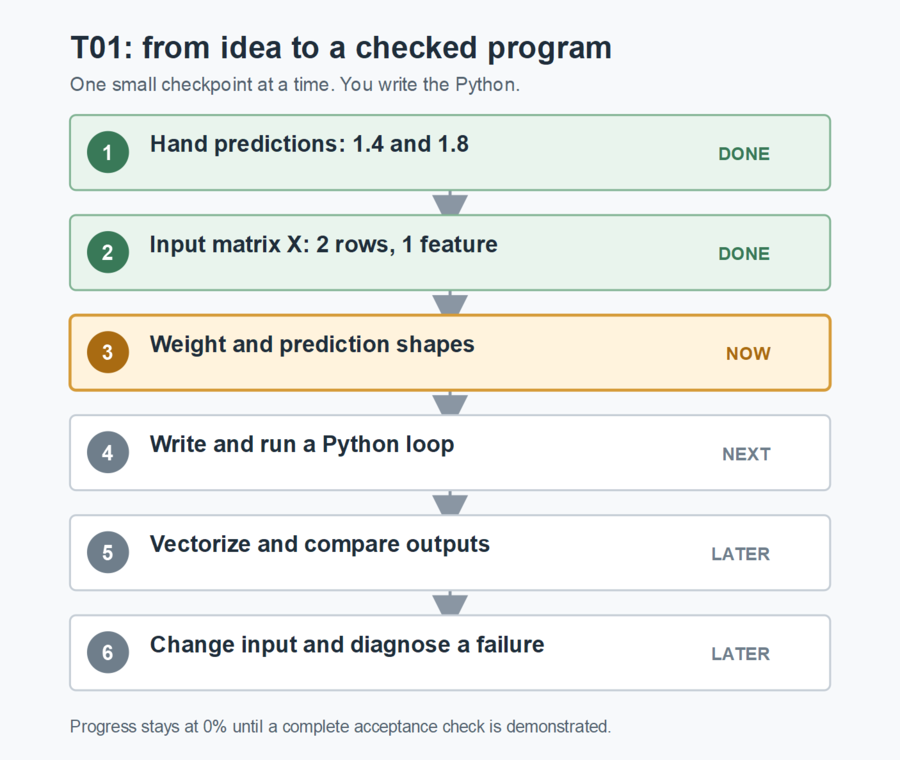
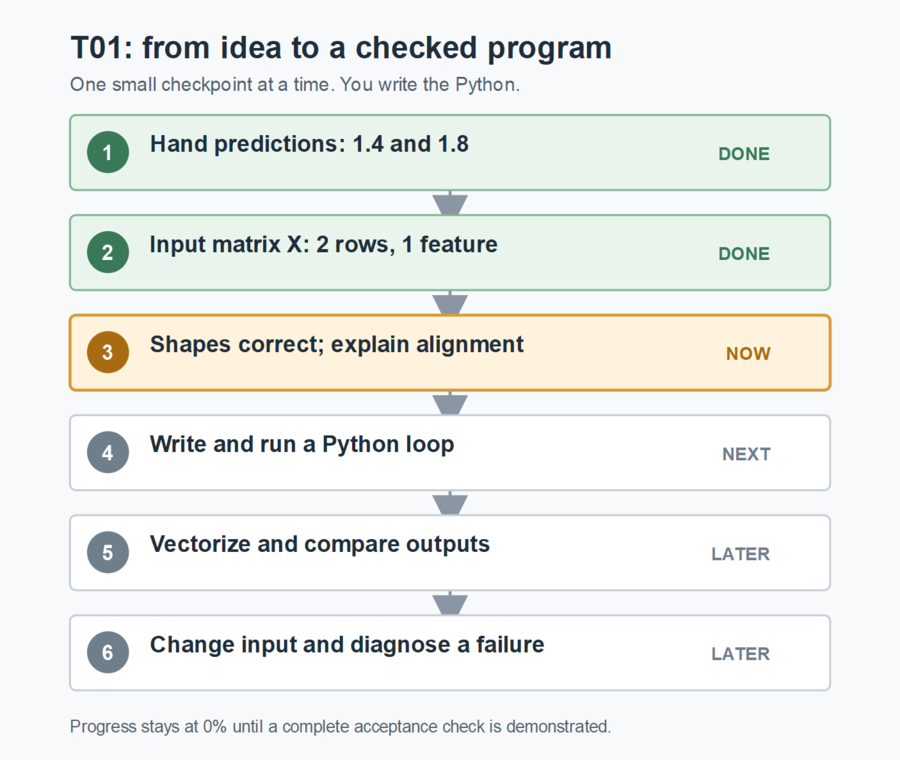
learn(T01): record correct shapes and next coding step

Changed region(s): [[0.1556, 0.4237, 0.5911, 0.4842]]

diff --git a/LEARNING_MANUAL.md b/LEARNING_MANUAL.md
@@ -9,12 +9,12 @@ This is the one document to read and work from. It grows as you build the projec
 | Course study | Machine Learning Specialization C1W1 and C1W2 completed, learner-reported; C1W3 not confirmed |
 | Project | P00, first-principles valuation-stretch foundation |
 | Active task | ML-G01-T01: prediction, first with one feature and two fictional companies |
-| Correct so far | Hand predictions `1.4` and `1.8`; input matrix `X.shape == (2, 1)` |
-| Still to answer | Shape of the weight array `w`, shape of the predictions, and why the dimensions fit |
+| Correct so far | Hand predictions `1.4` and `1.8`; `X.shape == (2, 1)`, `w.shape == (1,)`, and prediction shape `(2,)` |
+| Still to explain | Why the one feature in each row pairs with the one weight |
 | Code | The learner's Python file is empty; no run has been observed |
 | Evidence-backed progress | Task 0%, P00 0%, overall 0%; the first check is partial |
 
-![T01 learning flow, showing completed hand calculations and the current shape question](Visuals/current_lesson_flow.png)
+![T01 learning flow, showing correct shapes and the next Python run](Visuals/current_lesson_flow.png)
 
 The picture is a rendered PNG, not a Mermaid code block. The table above gives the same state if an image viewer is unavailable.
 
@@ -74,7 +74,7 @@ Use these rules to reason, not to memorize an answer:
 
 Different example: suppose three companies each have **two** features. The input table has shape `(3, 2)`. There are two weights, so a one-dimensional weight array has shape `(2,)`. One output per company gives a prediction array of shape `(3,)`. The inner dimensions match: each two-feature row pairs with two weights.
 
-**Your current check:** apply that reasoning to the two-company, one-feature exercise. State `w.shape`, the prediction array's shape, and why the feature count and weight count must agree. The manual does not fill in this active answer for you.
+**Your current check:** you answered `w.shape == (1,)` and prediction shape `(2,)` correctly. In your own words, explain why one feature column and one weight fit together. Then test the shapes in Python.
 
 ## 4. The Python ideas you will use
 
@@ -106,7 +106,7 @@ These are building blocks, not a finished solution. You decide the variable name
 | Step | What you do | Evidence | State |
 |---|---|---|---|
 | 1 | Calculate the two outputs by hand. | `1.4` and `1.8` | Done |
-| 2 | Explain the input, weight, and output shapes. | Correct sizes and one sentence on matching dimensions | In progress; `X` done |
+| 2 | Explain the input, weight, and output shapes. | Correct sizes and one sentence on matching dimensions | In progress; sizes correct, explanation pending |
 | 3 | Write a Python loop for the two rows. | Run it and compare with the hand values | Not started |
 | 4 | Write the vectorized NumPy form. | Show that both versions agree | Not started |
 | 5 | Add a second feature, then the five-feature fixture. | Explain new shapes and compare both versions | Later |
@@ -130,9 +130,9 @@ Before each first run, say what you expect to see. After the run, compare the ac
 
 Today's picture shows the task path, not model performance. When you reach gradient descent, you will plot cost against training steps to see whether learning is converging. Later you will plot actual against predicted values and the residuals, which are the differences between them. Each plot must come from your executed code and have an explanation of what it does and does not show.
 
-## Next answer
+## Next action
 
-For `X.shape == (2, 1)`, what are `w.shape` and the prediction array's shape? Why do those sizes fit? After that, we move to your first Python run.
+Write the smallest working version yourself in the empty Python file: create the two revenue-growth inputs, one trial weight, and bias; print the input and weight shapes; then use a loop to print one prediction per company. Predict the output before you run it. Show the run output and explain in one sentence why each one-feature row can pair with the one weight.
 
 ## How this manual is maintained
 

diff --git a/00_CURRENT_CONTEXT.md b/00_CURRENT_CONTEXT.md
@@ -19,12 +19,12 @@ This is the compact mentor resumption note for `D:\ML-project`. The learner work
 - Phase: P00, C1W2 first-principles valuation engine.
 - Goal: [ML-G01 - C1W2 Valuation Stretch Foundation](Goals/ML-G01%20-%20C1W2%20Valuation%20Stretch%20Foundation/GOAL.md).
 - Task: [ML-G01-T01 - Vectorized Prediction](Goals/ML-G01%20-%20C1W2%20Valuation%20Stretch%20Foundation/T01%20-%20Vectorized%20Prediction.md).
-- Task state: ready for Python; [first hand-calculation checkpoint](Journey/2026-09-23-ML-G01-T01.md) recorded, but no learner code attempt has been observed.
+- Task state: ready for Python; [hand predictions and `X` shape](Journey/2026-09-23-ML-G01-T01.md) plus [`w` and output shapes](Journey/2026-09-24-ML-G01-T01.md) recorded, but no learner code attempt has been observed.
 - Learner lesson and next-action page: [LEARNING_MANUAL.md](LEARNING_MANUAL.md). Keep its current step and diagram aligned with this note and the progress ledger.
 - Progress: task 0%, phase 0%, overall 0%; canonical ledger: [PROGRESS.md](PROGRESS.md).
 - Assistance debt: none.
 - Course coverage: Machine Learning Specialization C1W1 and C1W2 completed, learner-reported. C1W3 has not been confirmed. P00 uses C1W1 prediction, cost, and gradient descent as well as C1W2 methods. Later methods may be introduced early with a first-principles explanation, a bounded task, and a learner understanding check; this does not mark a course week or project capability complete.
-- Next action: the learner's hand predictions `1.4` and `1.8` and `X.shape == (2, 1)` are correct. Ask only for the shapes of `w` and the prediction vector and why they align; then have the learner write and run the first Python step in `Projects/AI Capital Cycle Quantamental Research Engine/src/01_vectorized_prediction.py`. Add features only after that small step works.
+- Next action: the learner's hand predictions `1.4` and `1.8`, `X.shape == (2, 1)`, `w.shape == (1,)`, and prediction shape `(2,)` are correct. Have the learner write and run the two-row, one-feature setup and loop in `Projects/AI Capital Cycle Quantamental Research Engine/src/01_vectorized_prediction.py`, then explain in one sentence why one feature column pairs with one weight. Add vectorization and more features only after that small step works.
 
 ## Current research target
 
@@ -76,4 +76,4 @@ The cross-phase [software engineering path](ENGINEERING_LEARNING_PATH.md) now in
 
 ## Evidence state
 
-All project capability is currently **planned**. Documentation, Mentor Mode, and the empty learner file exist, but no ML-G01 implementation or mastery has been demonstrated. After each task, record observed checks in `PROGRESS.md`, then refresh this note last.
+All project capability is currently **planned**. Hand predictions and array shapes have been answered correctly, but the first check still lacks an explanation, and no ML-G01 implementation or run has been demonstrated. After each task, record observed checks in `PROGRESS.md`, then refresh this note last.

diff --git a/PROGRESS.md b/PROGRESS.md
@@ -1,6 +1,6 @@
 # Project progress
 
-Updated: 2026-09-23
+Updated: 2026-09-24
 
 ## Current position
 
@@ -24,7 +24,7 @@ Phase P00        [--------------------]   0%
 Overall project  [--------------------]   0%
 ```
 
-The documentation system is established, but it does not count as demonstrated research capability. The learner's two starter hand predictions and `X` shape were correct; `w` and output shapes plus Python implementation are still open, so no T01 check has passed yet.
+The documentation system is established, but it does not count as demonstrated research capability. The learner's two starter hand predictions and all three shapes were correct. The dimension-matching explanation and Python implementation are still open, so no T01 check has passed yet.
 
 The [software engineering path](ENGINEERING_LEARNING_PATH.md) is planned across these phases, from Python file structure through SQL, APIs, frontend work, and system design. It earns no separate completion credit from documentation; each phase will require observed engineering evidence at its own gate.
 
@@ -75,7 +75,7 @@ Each T01 check is worth 20% of the task. Evidence must include the learner's exp
 
 | T01 check | State | Evidence |
 |---|---|---|
-| Two-row, one-feature shapes and hand predictions | open: `w` and output shapes pending | [correct hand predictions and `X` shape](Journey/2026-09-23-ML-G01-T01.md) |
+| Two-row, one-feature shapes and hand predictions | open: dimension-matching explanation pending | [hand predictions and `X` shape](Journey/2026-09-23-ML-G01-T01.md); [remaining shapes](Journey/2026-09-24-ML-G01-T01.md) |
 | Learner-written loop on starter data | open | none |
 | Vectorized prediction agrees on starter data | open | none |
 | Two- and five-feature agreement plus changed input | open | none |
@@ -96,4 +96,4 @@ If T01 reaches 100%, P00 gains 15 percentage points and the overall project gain
 
 ## Next milestone
 
-Start ML-G01-T01 with two fictional companies and one feature. Earn the first runnable checkpoint, then extend to two and five features, a changed input, and an incompatible-shape failure. The learner writes every code line.
+Write and run the first learner-authored Python step for two fictional companies and one feature, and explain why the feature and weight counts match. Then extend to vectorization, two and five features, a changed input, and an incompatible-shape failure. The learner writes every code line.

diff --git a/JOURNEY.md b/JOURNEY.md
@@ -16,6 +16,7 @@ This is the chronological record of decisions, attempts, evidence, and changes i
 | 2026-09-23 | [Software engineering path](ENGINEERING_LEARNING_PATH.md) added across P00-P07: folder roles, Python structure, SQL, APIs, analyst interface, and system design. | Planned; no engineering implementation evidence. |
 | 2026-09-24 | Initial navigation-only learner page created, then superseded by the integrated manual below. | Navigation only; T01 evidence unchanged. |
 | 2026-09-24 | [Cumulative learning manual](LEARNING_MANUAL.md) added with the full current lesson; its flow and the [knowledge graph](KNOWLEDGE_GRAPH.md) now use rendered PNGs instead of Mermaid code. | Documentation only; T01 evidence unchanged. |
+| 2026-09-24 | [T01 shape checkpoint](Journey/2026-09-24-ML-G01-T01.md): `w.shape == (1,)` and prediction shape `(2,)` answered correctly. | Correct shapes; explanation and Python run still open. |
 
 The setup documents were prepared with mentor assistance. They are project planning, not learner-authored model code or proof of mastery.
 
@@ -25,7 +26,7 @@ The setup documents were prepared with mentor assistance. They are project plann
 - [Current context](00_CURRENT_CONTEXT.md): T01 ready.
 - [Learning manual](LEARNING_MANUAL.md): the current integrated lesson and next action.
 - [Knowledge graph](KNOWLEDGE_GRAPH.md): current concepts and planned extensions.
-- [Session records](Journey/README.md): first hand-calculation checkpoint saved; no Python implementation session yet.
+- [Session records](Journey/README.md): hand-calculation and shape answers saved; no Python implementation session yet.
 - [Evidence index](Evidence/README.md): no project implementation evidence yet.
 
 ## How a session enters this record

diff --git a/Journey/2026-09-24-ML-G01-T01.md b/Journey/2026-09-24-ML-G01-T01.md
@@ -1,0 +1,18 @@
+# ML-G01-T01 shape checkpoint: 2026-09-24
+
+## Observed
+
+- The learner answered `w.shape == (1,)` for the one-feature model.
+- The learner answered prediction shape `(2,)` for the two company rows.
+- Both answers are correct. The earlier hand predictions `1.4` and `1.8` and `X.shape == (2, 1)` remain recorded in the [previous checkpoint](2026-09-23-ML-G01-T01.md).
+- No learner-written Python or execution has been observed. These are answers in the learning dialogue, not a code run.
+
+## Still open
+
+- The learner has not yet explained in their own words why the one feature column pairs with one weight.
+- T01's first acceptance check requires that explanation, so task, phase, and overall progress remain `0%`.
+- The loop, vectorized version, changed-input check, and shape-failure experiment remain open.
+
+## Next action
+
+Have the learner write the smallest two-row, one-feature Python setup and loop in the [empty assignment file](../Projects/AI%20Capital%20Cycle%20Quantamental%20Research%20Engine/src/01_vectorized_prediction.py). Ask for the predicted and actual output and one sentence on why the feature count and weight count match. Do not supply the finished assignment code.

diff --git a/Journey/README.md b/Journey/README.md
@@ -4,4 +4,4 @@ Use one dated session note for each meaningful work session. The note records wh
 
 Suggested filename: `YYYY-MM-DD_ML-G01-T01.md`.
 
-The first task has not started, so no session record exists yet. The timeline lives in [JOURNEY.md](../JOURNEY.md), while verified capability claims live in [Evidence](../Evidence/README.md).
+T01 has [hand-calculation](2026-09-23-ML-G01-T01.md) and [shape-answer](2026-09-24-ML-G01-T01.md) checkpoints. No learner Python run has been observed yet. The timeline lives in [JOURNEY.md](../JOURNEY.md), while verified capability claims live in [Evidence](../Evidence/README.md).
